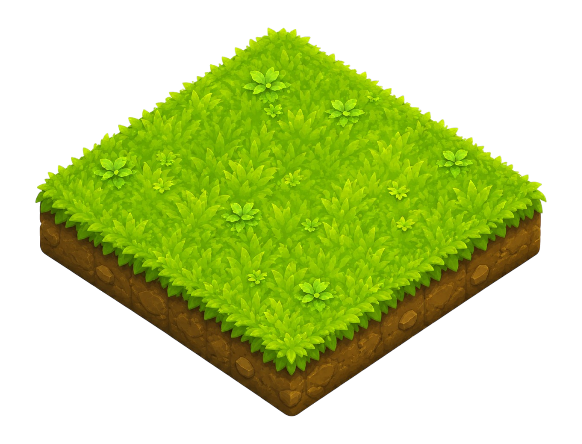
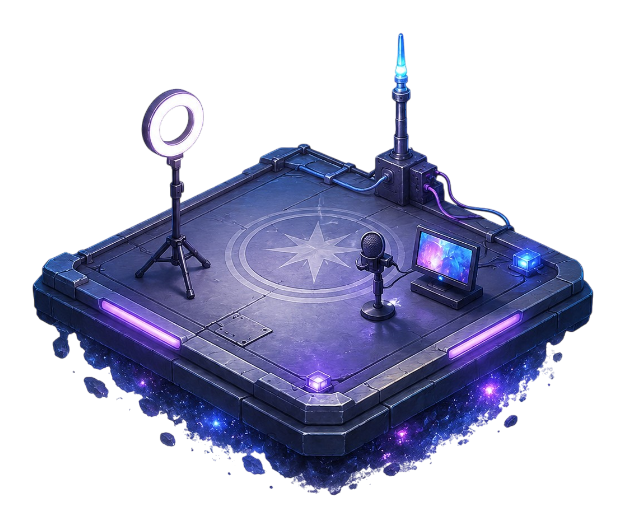
update

diff --git a/index.html b/index.html
@@ -1389,11 +1389,25 @@
   
 
     /* 星潮沙盤戰：正式地塊素材版 -------------------------------------------------- */
-    .traffic-war-window .traffic-war-map-scroll{position:relative!important;display:block!important;overflow:auto!important;overscroll-behavior:contain;touch-action:none;cursor:grab;-webkit-overflow-scrolling:touch;scrollbar-width:none;background:radial-gradient(circle at 50% 42%,rgba(255,226,130,.16),transparent 24%),radial-gradient(circle at 48% 72%,rgba(100,255,242,.10),transparent 30%),linear-gradient(135deg,rgba(8,12,32,.96),rgba(3,5,16,.98))!important;}
+    .traffic-war-window{
+      background:
+        linear-gradient(180deg,rgba(2,3,12,.78),rgba(5,7,22,.96)),
+        repeating-radial-gradient(circle at 18% 22%,rgba(255,255,255,.58) 0 1px,transparent 1px 84px),
+        repeating-radial-gradient(circle at 76% 34%,rgba(137,218,255,.34) 0 1px,transparent 1px 118px),
+        linear-gradient(135deg,#02030c 0%,#08112b 38%,#160d32 68%,#03030a 100%)!important;
+    }
+    .traffic-war-window .traffic-war-window-inner,
+    .traffic-war-stage{
+      background:
+        radial-gradient(ellipse at 42% 36%,rgba(85,145,255,.16),transparent 34%),
+        radial-gradient(ellipse at 68% 66%,rgba(170,92,255,.13),transparent 38%),
+        linear-gradient(180deg,rgba(2,4,15,.18),rgba(2,3,12,.62))!important;
+    }
+    .traffic-war-window .traffic-war-map-scroll{position:relative!important;display:block!important;overflow:auto!important;overscroll-behavior:contain;touch-action:none;cursor:grab;-webkit-overflow-scrolling:touch;scrollbar-width:none;background:radial-gradient(ellipse at 50% 42%,rgba(81,127,255,.16),transparent 30%),radial-gradient(ellipse at 48% 72%,rgba(125,255,238,.08),transparent 34%),linear-gradient(135deg,rgba(3,6,24,.94),rgba(3,4,13,.98))!important;}
     .traffic-war-window .traffic-war-map-scroll::-webkit-scrollbar{display:none;}
     .traffic-war-window .traffic-war-map-scroll.dragging{cursor:grabbing;}
     .traffic-war-window .traffic-war-map-grid{position:relative!important;display:block!important;width:var(--tw-grid-w,4200px)!important;height:var(--tw-grid-h,2700px)!important;min-width:var(--tw-grid-w,4200px)!important;margin:24px 24px 170px!important;transform:none!important;transform-origin:top left!important;filter:drop-shadow(0 38px 24px rgba(0,0,0,.46));}
-    .traffic-war-window .traffic-war-map-grid:before{content:"";position:absolute;left:280px;right:280px;top:190px;bottom:90px;background:radial-gradient(ellipse at center,rgba(70,118,72,.18),rgba(8,12,32,.03) 68%,transparent 78%);filter:blur(14px);pointer-events:none;}
+    .traffic-war-window .traffic-war-map-grid:before{content:"";position:absolute;left:280px;right:280px;top:190px;bottom:90px;background:radial-gradient(ellipse at center,rgba(75,122,255,.13),rgba(8,12,32,.03) 68%,transparent 78%);filter:blur(14px);pointer-events:none;}
     .traffic-war-window .traffic-war-tile{position:absolute!important;left:var(--tw-left)!important;top:var(--tw-top)!important;z-index:var(--tw-z)!important;width:142px!important;height:112px!important;border:0!important;border-radius:0!important;background:transparent!important;box-shadow:none!important;overflow:visible!important;transform:none!important;padding:0!important;cursor:pointer;transition:filter .14s ease,transform .14s ease;}
     .traffic-war-window .traffic-war-tile:hover{transform:translateY(-3px)!important;filter:brightness(1.13) drop-shadow(0 0 12px rgba(255,230,163,.22));}
     .traffic-war-window .traffic-war-tile::before,.traffic-war-window .traffic-war-tile::after{content:none!important;display:none!important;}
@@ -1700,9 +1714,10 @@
     .lobby-community-mini{border:1px solid rgba(100,255,242,.38);border-radius:20px;background:linear-gradient(135deg,rgba(8,9,33,.78),rgba(8,72,74,.38));backdrop-filter:blur(9px);box-shadow:0 0 22px rgba(0,0,0,.28),inset 0 0 20px rgba(100,255,242,.05);padding:12px;color:#ddfffb;font-size:12px;line-height:1.62;display:grid;gap:8px;}
     .lobby-community-mini b{display:block;color:#bffcff;font-size:14px;text-shadow:0 0 10px rgba(100,255,242,.24);}
     .lobby-community-mini span{color:#cbd8ff;}
-    .lobby-community-mini a{display:inline-flex;align-items:center;justify-content:center;gap:6px;width:auto;max-width:210px;justify-self:start;border-radius:999px;background:linear-gradient(135deg,#00fff0,#ffdf8a);color:#101426!important;font-weight:1000;text-decoration:none;padding:8px 14px;font-size:12px;line-height:1.2;white-space:nowrap;box-shadow:0 0 18px rgba(0,255,240,.16);}
-    @media(max-width:430px){.lobby-community-mini{padding:10px}.lobby-community-mini a{max-width:170px;padding:7px 12px;font-size:11px;}}
-    @media(max-height:740px){.lobby-home-info .lobby-tip-mini{display:flex!important}.lobby-home-info{margin-bottom:8px}.lobby-contact-mini,.lobby-community-mini{font-size:11px;padding:8px 10px;}.lobby-community-mini a{max-width:170px;padding:7px 12px;font-size:11px;}}
+    .lobby-community-links{display:flex;flex-wrap:wrap;gap:8px;align-items:center;max-width:100%;}
+    .lobby-community-mini a{display:inline-flex;align-items:center;justify-content:center;gap:6px;width:min(230px,100%);max-width:100%;justify-self:start;border-radius:999px;background:linear-gradient(135deg,#00fff0,#ffdf8a);color:#101426!important;font-weight:1000;text-decoration:none;padding:8px 14px;font-size:12px;line-height:1.2;white-space:normal;text-align:center;box-sizing:border-box;box-shadow:0 0 18px rgba(0,255,240,.16);}
+    @media(max-width:430px){.lobby-community-mini{padding:10px}.lobby-community-mini a{width:min(210px,100%);padding:7px 12px;font-size:11px;}}
+    @media(max-height:740px){.lobby-home-info .lobby-tip-mini{display:flex!important}.lobby-home-info{margin-bottom:8px}.lobby-contact-mini,.lobby-community-mini{font-size:11px;padding:8px 10px;}.lobby-community-mini a{width:min(210px,100%);padding:7px 12px;font-size:11px;}}
 
     .game-chat-dock{position:fixed!important;left:calc(50% - 64px)!important;bottom:calc(12px + env(safe-area-inset-bottom))!important;transform:none!important;width:58px!important;height:58px!important;z-index:810!important;border:1px solid rgba(255,230,163,.54)!important;border-radius:18px!important;background:linear-gradient(145deg,rgba(30,23,82,.92),rgba(8,10,30,.88))!important;backdrop-filter:blur(14px)!important;box-shadow:0 10px 30px rgba(0,0,0,.5),0 0 18px rgba(100,255,242,.16)!important;padding:0!important;box-sizing:border-box!important;color:#fff!important;}
     .game-chat-toggle{position:relative!important;width:100%!important;height:100%!important;border:0!important;border-radius:17px!important;background:linear-gradient(135deg,rgba(100,255,242,.22),rgba(255,0,127,.20))!important;color:#fff!important;padding:0!important;font-weight:1000!important;display:flex!important;flex-direction:column!important;align-items:center!important;justify-content:center!important;gap:2px!important;cursor:pointer!important;text-shadow:0 0 10px rgba(100,255,242,.3)!important;}
@@ -2509,6 +2524,19 @@
     /* TLO performance hotfix: 保留功能，降低手機端拖曳 / 縮放 / 點格子時的重繪成本 */
     html, body{overscroll-behavior-y:contain;}
     .traffic-war-window.show{overscroll-behavior:none;touch-action:none;}
+    .traffic-war-window.show{
+      background:
+        radial-gradient(circle at 12% 18%, rgba(255,255,255,.42) 0 1px, transparent 2px),
+        radial-gradient(circle at 74% 20%, rgba(126,212,255,.32) 0 1px, transparent 2px),
+        radial-gradient(circle at 38% 76%, rgba(255,230,170,.26) 0 1px, transparent 2px),
+        radial-gradient(ellipse at 50% 42%, rgba(74,111,255,.20), transparent 36%),
+        radial-gradient(ellipse at 70% 70%, rgba(170,82,255,.16), transparent 42%),
+        linear-gradient(135deg,#02030c 0%,#07122d 44%,#160d32 72%,#03040d 100%)!important;
+    }
+    .traffic-war-window .traffic-war-window-inner,
+    .traffic-war-window .traffic-war-stage{
+      background:transparent!important;
+    }
     .traffic-war-window .traffic-war-map-scroll{
       touch-action:none!important;
       overscroll-behavior:contain!important;
@@ -2547,6 +2575,11 @@
         radial-gradient(ellipse at 54% 46%, rgba(82,150,255,.13), transparent 48%);
       opacity:.9;
     }
+    .traffic-war-window .traffic-war-tile::before,
+    .traffic-war-window .traffic-war-tile::after{
+      content:none!important;
+      display:none!important;
+    }
     .traffic-war-window .traffic-war-tile{
       width:var(--tw-tile-w,116px)!important;
       height:var(--tw-tile-h,92px)!important;
@@ -2560,13 +2593,7 @@
       -webkit-tap-highlight-color:transparent;
     }
     .traffic-war-window .traffic-war-tile::before,
-    .traffic-war-window .traffic-war-tile::after{
-      content:""!important;
-      position:absolute!important;
-      left:50%!important;
-      pointer-events:none!important;
-      display:block!important;
-    }
+    .traffic-war-window .traffic-war-tile::after{content:none!important;display:none!important;}
     .traffic-war-window .traffic-war-tile::before{
       bottom:5px!important;
       width:calc(var(--tw-tile-w,116px) * .96)!important;
@@ -3004,7 +3031,10 @@
         <div class="lobby-community-mini" id="lobby-community-box">
           <b>🌟 加入星域經紀人社群</b>
           <span>加入「T-LO 實況星域」社群，一起交流抽卡、戰場、活動與直播主養成。</span>
-          <a href="https://line.me/ti/g2/Nj55_ery9lCgSXNNrMJG6BK8cUye28bvLEKZ2A?utm_source=invitation&amp;utm_medium=link_copy&amp;utm_campaign=default" target="_blank" rel="noopener">加入星域經紀人社群</a>
+          <div class="lobby-community-links">
+            <a href="https://line.me/ti/g2/Nj55_ery9lCgSXNNrMJG6BK8cUye28bvLEKZ2A?utm_source=invitation&amp;utm_medium=link_copy&amp;utm_campaign=default" target="_blank" rel="noopener">加入星域經紀人社群</a>
+            <a href="https://facebook.com/TloCards" target="_blank" rel="noopener">追蹤 T-LO 實況星域 FB 粉絲專頁</a>
+          </div>
         </div>
       </div>
 
@@ -10895,8 +10925,9 @@ function showCollectionHistory() {
       var rt = String(tile.resource_type || '').toLowerCase();
       if (rt === 'tip' || rt === 'gift_energy' || rt === '打賞') return '打賞資源地';
       if (rt === 'popularity' || rt === 'fans' || rt === '人氣') return '人氣資源地';
-      if (level <= 2) return '荒地';
-      return '草地';
+      if (level <= 1) return '星岩基座';
+      if (level === 2) return '星塔平台';
+      return '直播星域平台';
     }
 
     function renderTrafficWarTileDetailBubble(state, tile) {